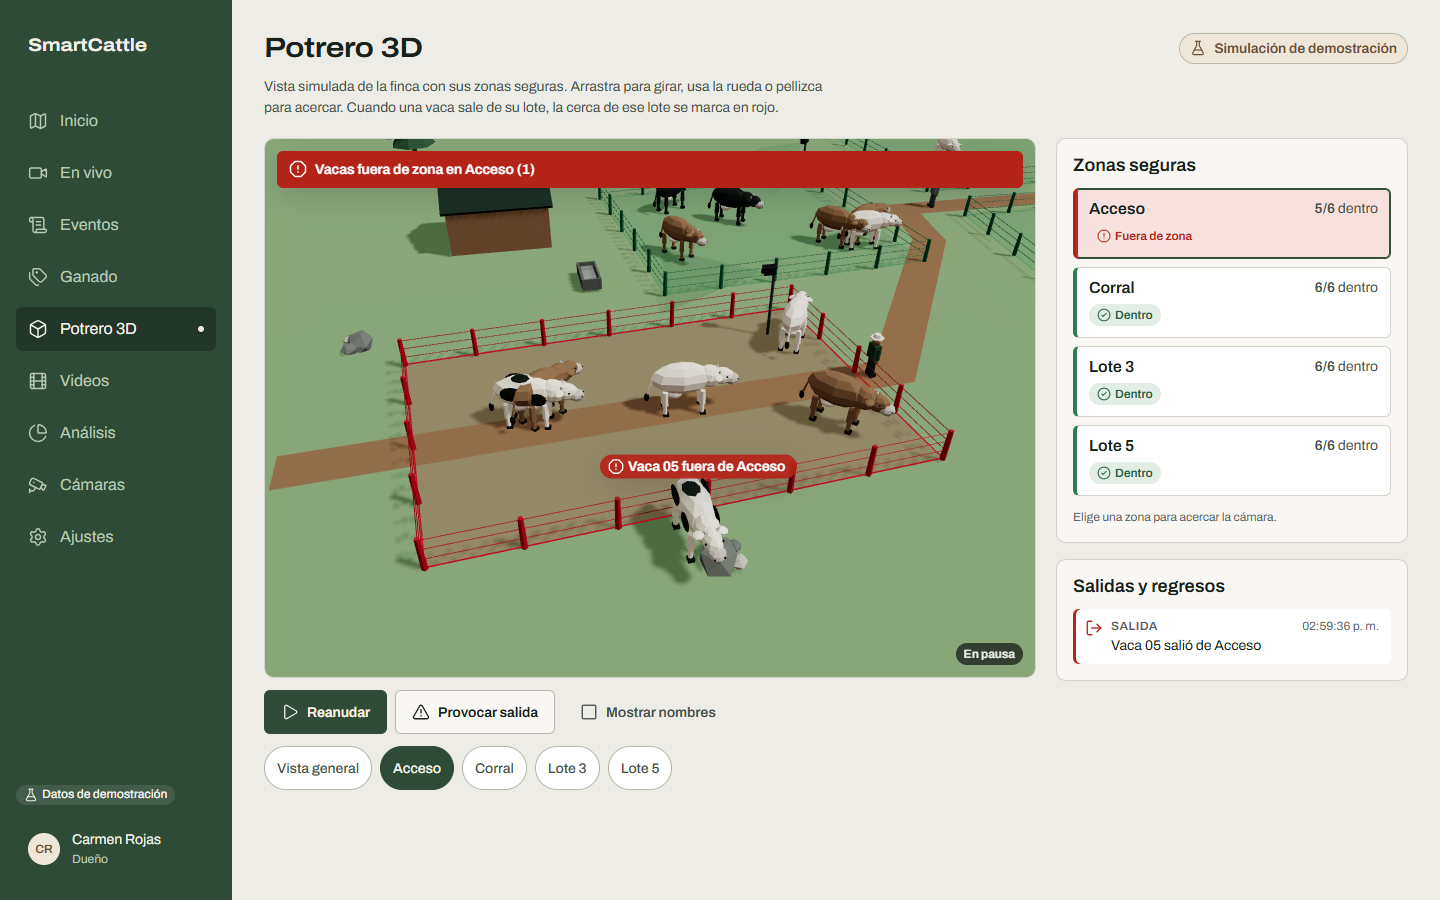
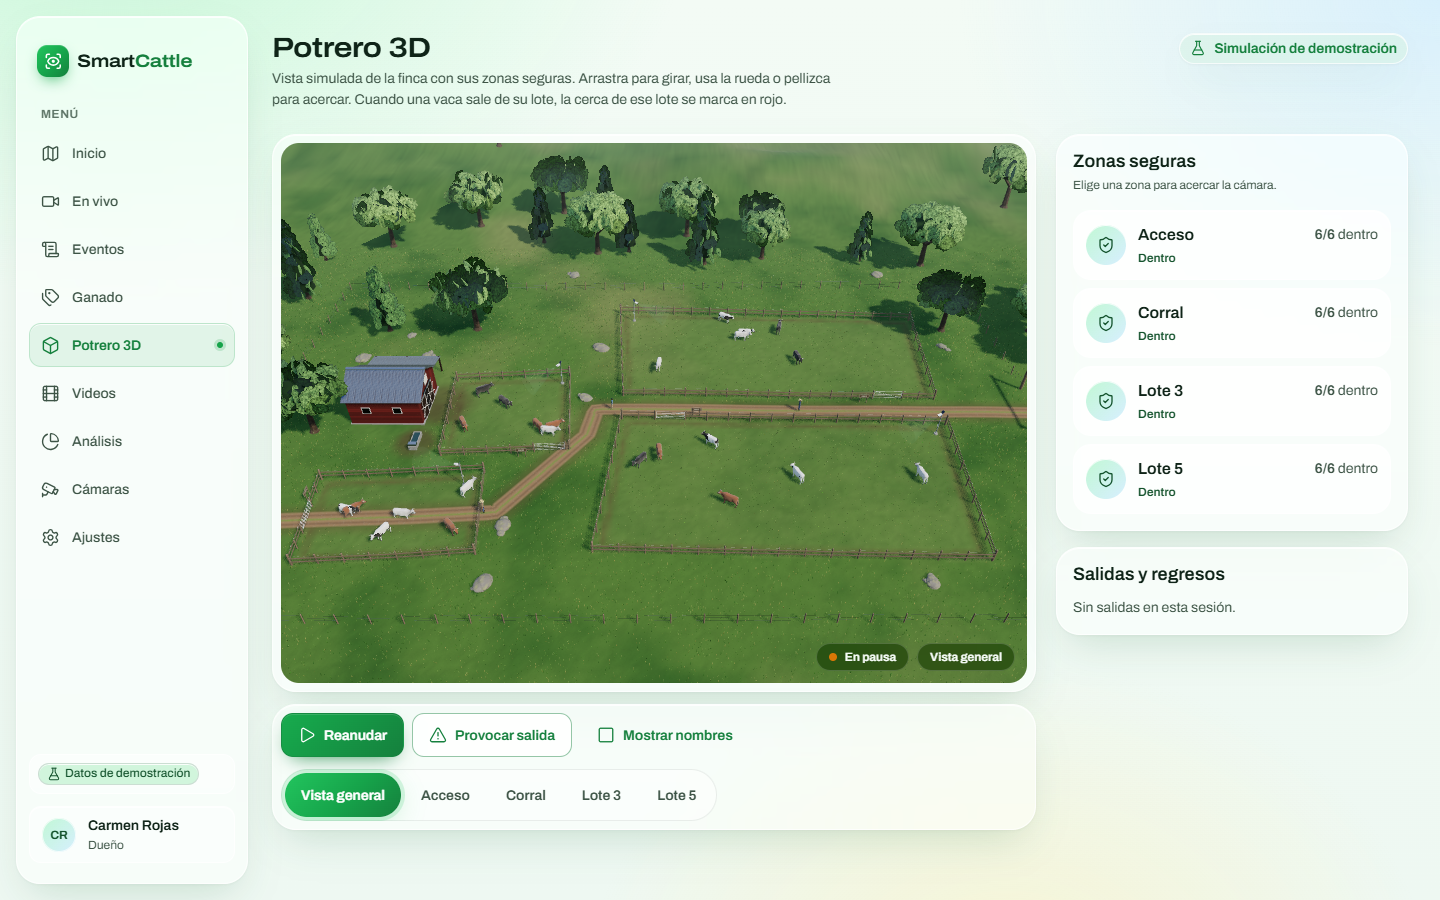
docs(readme): describe the realistic 3D pasture kit and credit the cow model

diff --git a/README.md b/README.md
@@ -464,7 +464,8 @@ flowchart LR
     kit["kit/ terrain, fences, animals,<br/>people, structures, nature"] --> scene
 ```
 
-- **Modular asset kit.** Every 3D asset is procedural (no model files) and lives in its own family folder, like a modular asset library: `kit/terrain`, `kit/fences`, `kit/animals`, `kit/people`, `kit/structures`, `kit/nature`. Geometries and materials are shared, and colors come from one palette derived from the design tokens.
+- **Modular asset kit.** Assets live in family folders, like a modular asset library: `kit/terrain`, `kit/environment`, `kit/fences`, `kit/animals`, `kit/people`, `kit/structures`, `kit/nature`. Cows use a CC0 glTF model (`public/models/cow.glb`) with coats (Holstein, criollo, black Brangus, zebu) generated at runtime; people, fences, barn, trees, rocks, grass, terrain and sky are procedural. Geometries and materials are shared.
+- **Glass wrapper.** The page header, controls, zone panel and exit log use the glass panels of the rest of the app; the scene itself is unchanged.
 - **Zone state.** Each lot is a safe zone. Membership is a point-in-polygon test on the lot boundary. A breached zone shows red, a pulsing outline, a label with the cow's name and the words "fuera de zona", so the state is never color-only.
 - **Controls.** Pause/resume, "Provocar salida" (forces one cow out to demo the alert), name labels on/off and camera presets (overview and one per lot). The zone panel lists cows inside each lot; the exit log keeps the session's exits and returns.
 - **Performance.** Positions update in refs inside the render loop; React state changes only when a zone's status changes. Device pixel ratio is capped at 2.
@@ -672,6 +673,6 @@ Pending on the backend side: authentication, cameras, streaming, detections, saf
 
 - Login photo: [Cows grazing in a field at sunset](https://unsplash.com/photos/cows-grazing-in-a-field-at-sunset-HaSohIaDVdI) by Uran Wang, [Unsplash License](https://unsplash.com/license). Used as an illustrative image, not farm footage. The detections drawn over it are simulated.
 - Icons: [Lucide](https://lucide.dev) (ISC License).
-- 3D: [three.js](https://threejs.org) and [React Three Fiber](https://docs.pmnd.rs/react-three-fiber) (MIT License). All 3D assets are procedural and original to this project.
+- 3D: [three.js](https://threejs.org) and [React Three Fiber](https://docs.pmnd.rs/react-three-fiber) (MIT License). Cow model: "Cow" from the [Ultimate Animated Animal Pack](https://quaternius.com/packs/ultimateanimatedanimals.html) by Quaternius (CC0 1.0); see `public/models/CREDITS.md`. All other 3D assets are procedural and original to this project.
 - Charts: [Recharts](https://recharts.org) (MIT License). Motion: [Motion](https://motion.dev) (MIT License).
 - Font: [Archivo](https://fonts.google.com/specimen/Archivo) by Omnibus-Type (SIL Open Font License).
